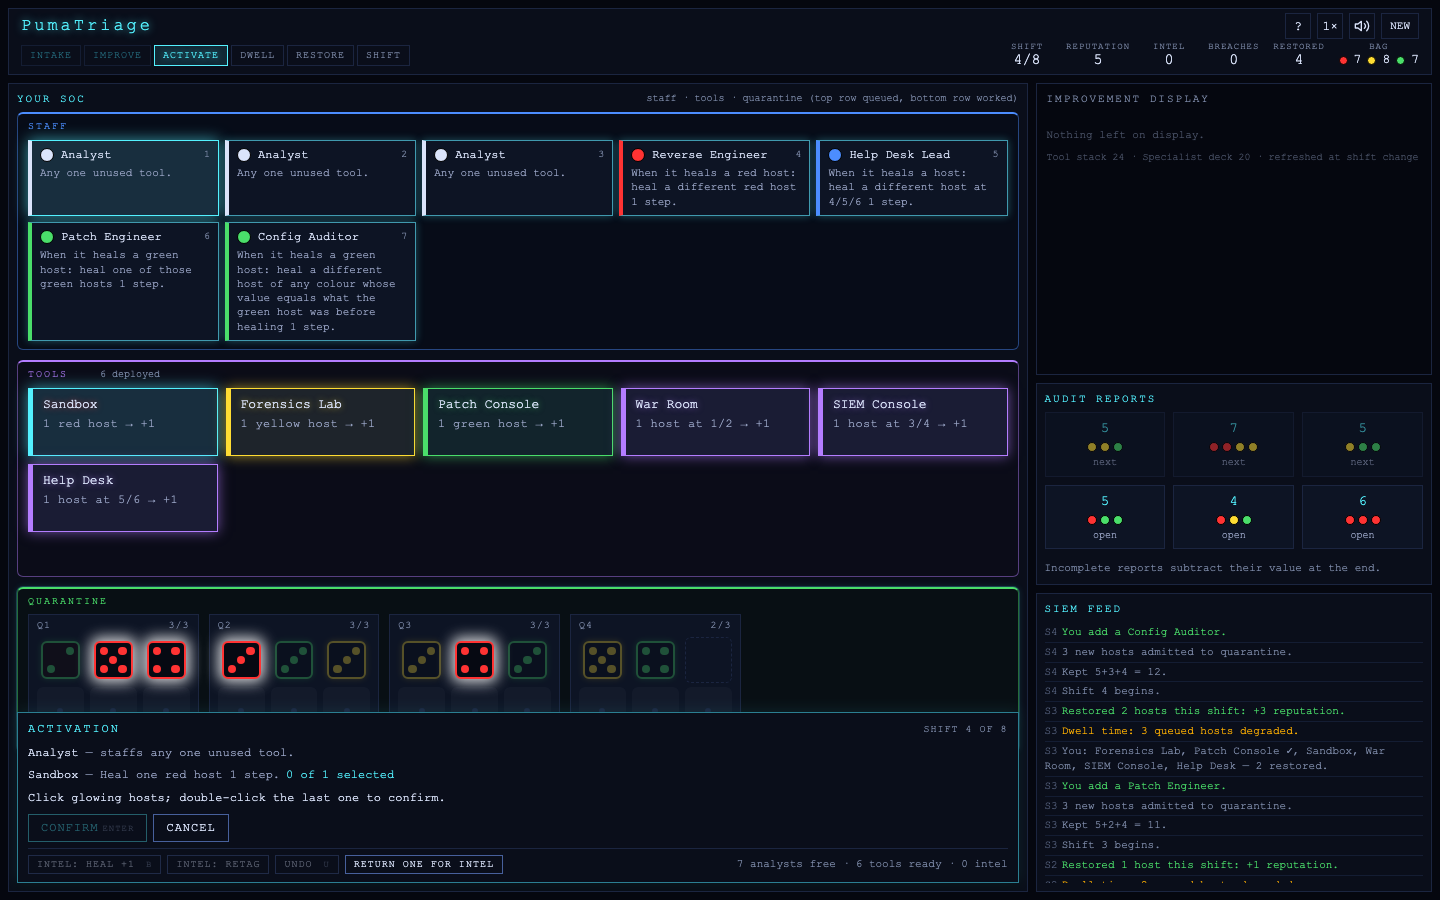
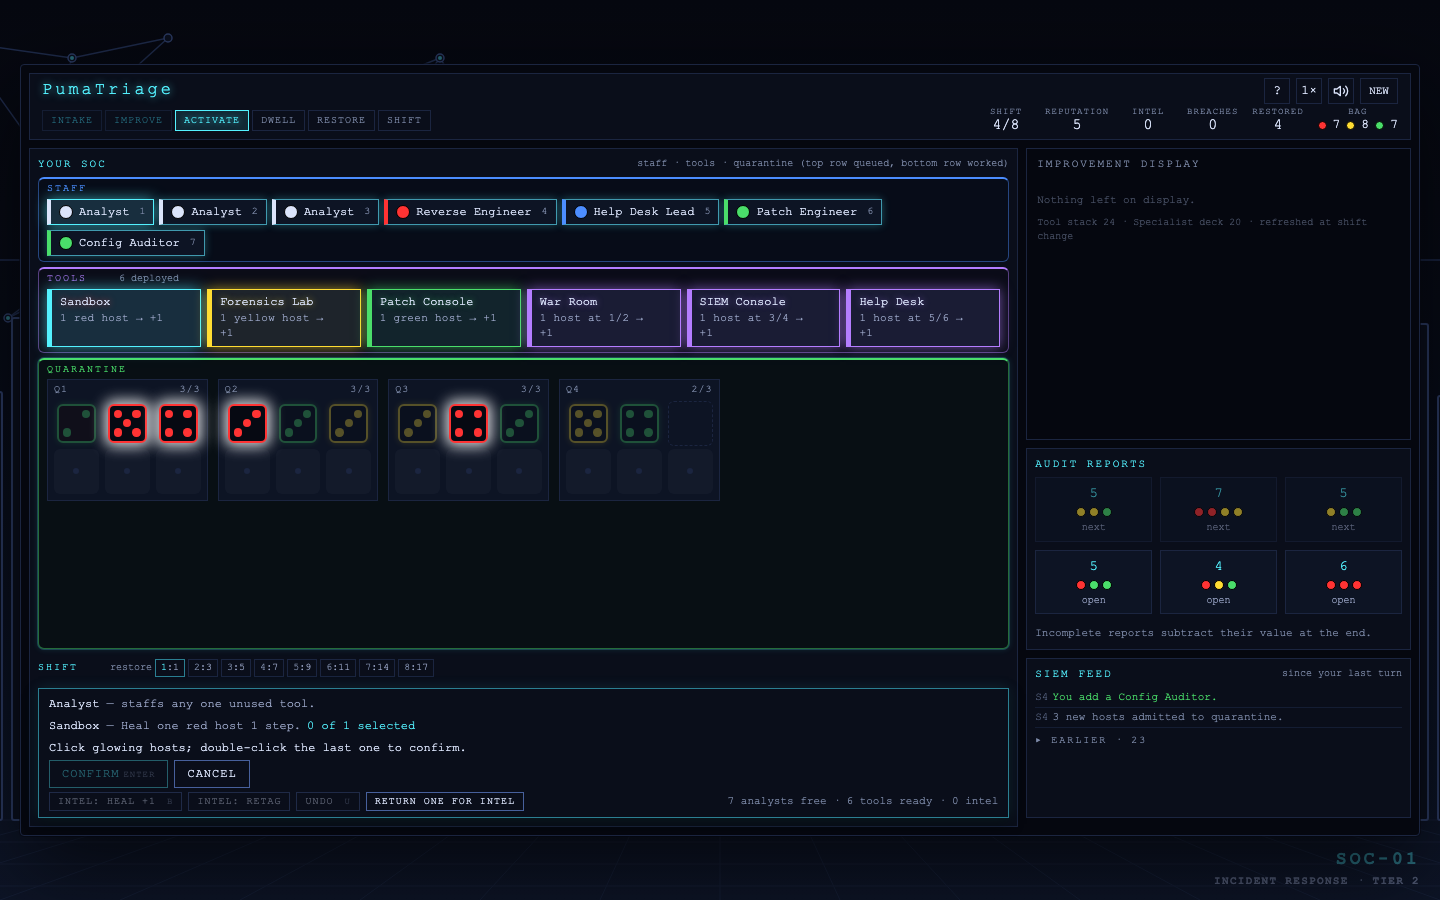
Float the board over a SOC; the SIEM feed folds to your last turn
The game now floats in the middle of the window over a line-drawn
operations room, after PumaCity's terminal over its district, and the
SIEM feed shows only what happened since your last turn.

- SIEM feed: what happened since your last turn ended (the rivals'
  moves, dwell and restoration) plus whatever you are doing now. A turn
  is a stretch where the game waits on you; two prompts in a row with
  nothing logged between them count as one. Everything older sits under
  a collapsed "Earlier · N" fold. Log entries are now records with their
  shift and colour, which also fixes the resumed feed losing both; saves
  from before this resume with their plain-string log converted.
- Layout: the board column sets the height. The action strip sits on its
  floor and the feed fills the side column down to the same line; when
  the side column is the taller one, the quarantine mat takes up the
  difference. The board holds the tallest it has been this game at this
  window size, so it never shrinks back. Phones keep the full-width
  layout with no scene.
- The strip starts as tall as a working activation turn: three lines of
  text, the confirm/cancel row and the intel/undo row (171px; 130px
  compact).
- The compact layout now applies up to 960px tall instead of 840px, so a
  1440x900 or 1280x800 window fits the floating panel without scrolling.
- Scene: racks with status lights in the side margins, a network map
[…]

Changed region(s): [[0.0, 0.0, 1.0, 0.9956], [0.8438, 0.4667, 0.875, 0.5289], [0.5, 0.7156, 0.5312, 0.7467]]

diff --git a/index.html b/index.html
@@ -61,6 +61,8 @@
   --ease-out-quart: cubic-bezier(0.25, 1, 0.5, 1);
   --ease-out-expo: cubic-bezier(0.16, 1, 0.3, 1);
   --die: clamp(36px, 2.7vw, 46px);
+  --term: 1480px;
+  --frame: clamp(8px, min(2vw, (100dvh - 860px) / 2), 28px);
 }
 
 * { box-sizing: border-box; }
@@ -74,11 +76,30 @@
 *::-webkit-scrollbar-thumb:hover { background: var(--lit); }
 *::-webkit-scrollbar-corner { background: var(--bg); }
 html, body {
-  margin: 0; padding: 0; height: 100%;
+  margin: 0; padding: 0;
   background: var(--bg); color: var(--text);
   font-family: var(--font-mono); font-size: 13px; line-height: 1.35;
 }
-body { overflow: hidden; }
+/* The game floats in the middle of the window over a line-drawn SOC (after
+   PumaCity's terminal over its district). margin:auto on #app centres it both
+   ways and, unlike align-items, never pushes its top out of reach when the
+   window is shorter than the game. */
+body { min-height: 100dvh; display: flex; padding: var(--frame); box-sizing: border-box; }
+#scene {
+  position: fixed; inset: 0; z-index: 0; pointer-events: none; overflow: hidden;
+  background: linear-gradient(#05070f 0%, #070b17 45%, #0a1122 78%, #0d1426 100%);
+}
+#scene svg { display: block; width: 100%; height: 100%; }
+#scene .sf { fill: #0a0f1d; stroke: #2a3960; stroke-width: 2; stroke-linejoin: round; }
+#scene .sl { fill: none; stroke: #1d2948; stroke-width: 1.5; stroke-linecap: round; stroke-linejoin: round; }
+#scene .sfl { fill: none; stroke: #141d33; stroke-width: 1; }
+#scene .su { fill: #0d1424; }
+#scene .sn { fill: #0a0f1d; stroke: #2a3960; stroke-width: 1.5; }
+#scene .la { fill: #54f2ff; opacity: .45; } #scene .lg { fill: #4ade6a; opacity: .4; } #scene .lw { fill: #ffb000; opacity: .5; }
+#scene .na { fill: #54f2ff; opacity: .4; }
+#scene .ring { fill: none; stroke: #ffb000; stroke-width: 1.5; }
+#scene .stx { font: 600 18px var(--font-mono); letter-spacing: .18em; fill: #54f2ff; opacity: .4; }
+#scene .stx.sm { font-size: 11px; letter-spacing: .12em; fill: #8b96b8; opacity: .5; }
 button { font-family: var(--font-mono); }
 a { color: var(--accent); }
 
@@ -86,13 +107,23 @@ a { color: var(--accent); }
    LAYOUT
    ============================================================ */
 #app {
-  height: 100vh; display: grid; gap: 8px; padding: 8px;
+  position: relative; z-index: 1; margin: auto; width: min(var(--term), 100%);
+  display: grid; gap: 8px; padding: 8px;
   grid-template-columns: minmax(640px, 1.8fr) minmax(280px, 0.7fr);
-  grid-template-rows: auto minmax(0, 1fr);
+  grid-template-rows: auto auto;
   grid-template-areas: "hud hud" "board side";
+  background: var(--bg); border: 1px solid var(--border); border-radius: 4px;
+  box-shadow: 0 0 0 1px rgba(5,7,15,0.6), 0 30px 90px rgba(0,0,0,0.65);
 }
 #hud-top { grid-area: hud; }
-#board   { grid-area: board; overflow: auto; }
+/* The board sets the game's height. The strip sits on the column's floor, so
+   its bottom edge and the bottom of the SIEM feed beside it are one line. */
+#board   { grid-area: board; display: flex; flex-direction: column; }
+#board > #strip { margin-top: auto; }
+#board > :has(+ #strip) { margin-bottom: 12px; }
+/* When the side column is the taller one, the quarantine mat takes up the
+   difference rather than leaving a hole above the strip. */
+#board > .grp-wards { flex-grow: 1; }
 /* The shared table keeps one fixed height across phases so the board below
    never shifts; anything taller scrolls inside it. */
 #table   { border: 1px solid var(--accent-dim); background: rgba(84,242,255,0.03); padding: 8px 10px 10px; margin-bottom: 12px; height: var(--table-h, 212px); overflow: auto; }
@@ -595,17 +626,30 @@ a { color: var(--accent); }
 .rival-card.cmd .rn::after { content: "CMD"; font-size: 8px; color: var(--accent); border: 1px solid var(--accent); padding: 0 3px; margin-left: 4px; }
 .rival-card.turn { border-color: var(--accent); }
 
-#siem { flex: 1; min-height: 120px; display: flex; flex-direction: column; }
-#log-list { list-style: none; margin: 0; padding: 0; overflow-y: auto; flex: 1; font-size: 11px; }
-#log-list li { padding: 2px 0; border-bottom: 1px solid var(--line); animation: log-enter .3s var(--ease-out-quart); word-break: break-word; }
+/* The feed fills the side column down to the bottom of the action strip and
+   never sets its height: size containment keeps a long log from stretching
+   the row, so the board column decides how tall the game is. */
+#siem { flex: 1 1 0; min-height: 160px; contain: size; display: flex; flex-direction: column; margin-bottom: 9px; } /* the board panel's padding + border under the strip */
+#siem .log-scroll { flex: 1; min-height: 0; overflow-y: auto; }
+#siem ul { list-style: none; margin: 0; padding: 0; font-size: 11px; }
+#siem li { padding: 2px 0; border-bottom: 1px solid var(--line); animation: log-enter .3s var(--ease-out-quart); word-break: break-word; }
 @keyframes log-enter { 0% { opacity: 0; transform: translateX(-6px); } 100% { opacity: 1; transform: none; } }
-#log-list li.warn { color: var(--warn); } #log-list li.bad { color: var(--red); } #log-list li.good { color: var(--green); } #log-list li.sys { color: var(--text-dim); }
-#log-list li .ts { color: #56627f; margin-right: 4px; }
+#siem li.warn { color: var(--warn); } #siem li.bad { color: var(--red); } #siem li.good { color: var(--green); } #siem li.sys { color: var(--text-dim); }
+#siem li .ts { color: #56627f; margin-right: 4px; }
+#log-older summary { cursor: pointer; color: var(--text-dim); font-size: 10px; letter-spacing: 2px; text-transform: uppercase; padding: 6px 0 3px; list-style: none; }
+#log-older summary::before { content: "▸ "; } #log-older[open] summary::before { content: "▾ "; }
+#log-older summary::-webkit-details-marker { display: none; }
+#log-older summary:hover { color: var(--white); }
+#log-older ul { opacity: 0.75; }
 
 /* ============================================================
    ACTIONS bar + buttons
    ============================================================ */
+/* From the first prompt the strip is as tall as a working activation turn:
+   three lines of text (analyst, tool, prompt), the confirm/cancel row and the
+   intel/undo row, so the game is already at that size when the turn comes. */
 #strip {
+  min-height: 171px;
   position: sticky; bottom: 0; z-index: 5; margin: 12px 0 0;
   background: var(--panel); border: 1px solid var(--accent-dim); padding: 8px 10px;
   box-shadow: 0 0 14px rgba(84,242,255,0.12), 0 6px 12px rgba(0,0,0,0.6);
@@ -722,7 +766,7 @@ details.addons summary::-webkit-details-marker { display: none; }
 /* Short viewports (laptops): fitting the board beats reserving room for
    growth, so nothing here holds space, and the three rows above the strip
    pack down so the quarantine segments stay on screen without scrolling. */
-@media (max-height: 840px) {
+@media (max-height: 960px) {
   #staff, #depts { min-height: 0; }
   .grp { padding: 3px 8px 5px; margin-bottom: 5px; }
   .grp > .board-row { margin-bottom: 3px; }
@@ -750,7 +794,8 @@ details.addons summary::-webkit-details-marker { display: none; }
   /* The strip drops its head (the HUD already shows the phase and the
      shift) and packs the prompt, the buttons and the intel/undo row into
      two lines. */
-  #strip { margin-top: 6px; padding: 6px 10px; display: flex; flex-wrap: wrap; align-items: center; gap: 4px 10px; }
+  #board > :has(+ #strip) { margin-bottom: 6px; }
+  #strip { min-height: 130px; margin-top: 6px; padding: 6px 10px; display: flex; flex-wrap: wrap; align-items: center; gap: 4px 10px; }
   .strip-head { display: none; }
   .strip-rule { flex: 1 1 100%; padding: 1px 0; }
   #phase-instructions { flex: 1 1 100%; min-height: 0; margin: 0; }
@@ -758,13 +803,15 @@ details.addons summary::-webkit-details-marker { display: none; }
   .strip-tools { flex: 1 1 auto; margin: 0; padding: 0; border-top: 0; }
 }
 @media (max-width: 960px) {
-  :root { --die: clamp(36px, 9vw, 48px); }
-  body { overflow: auto; }
+  :root { --die: clamp(36px, 9vw, 48px); --frame: 0px; }
+  body { display: block; }
+  #scene { display: none; }
   #app {
-    height: auto; grid-template-columns: 1fr; grid-template-rows: auto;
+    width: auto; border: 0; border-radius: 0; box-shadow: none;
+    grid-template-columns: 1fr; grid-template-rows: auto;
     grid-template-areas: "hud" "board" "side";
   }
-  #board { overflow: visible; }
+  #siem { min-height: 240px; }
   #table { height: auto; overflow: visible; }
   #table.idle { display: none; }
   #staff, #depts { min-height: 0; }
@@ -777,6 +824,7 @@ details.addons summary::-webkit-details-marker { display: none; }
 </style>
 </head>
 <body>
+<div id="scene" aria-hidden="true"></div>
 <div id="app">
   <header id="hud-top">
     <div class="brand">
@@ -796,7 +844,7 @@ details.addons summary::-webkit-details-marker { display: none; }
   <aside id="side">
     <div id="side-table"></div>
     <div id="rivals-panel" class="panel"><h3>Rival SOCs</h3><div id="rivals"></div></div>
-    <div id="siem" class="panel"><h3>SIEM Feed</h3><ul id="log-list" aria-label="Event log"></ul></div>
+    <div id="siem" class="panel"><h3>SIEM Feed<span class="h3-note">since your last turn</span></h3><div class="log-scroll"><ul id="log-list" aria-label="Events since your last turn"></ul><details id="log-older" hidden><summary>Earlier · <span class="n">0</span></summary><ul aria-label="Earlier events"></ul></details></div></div>
   </aside>
 </div>
 <div id="phase-toast" aria-hidden="true"></div>
@@ -1221,7 +1269,7 @@ const WAIT = "wait", ANIM = "anim", NEXT = "next";
 
 const UI = {
   sel: {}, legalTargets: new Set(), legalByDept: {}, undo: [], undoBarrier: 0,
-  eventQueue: [], queueTimer: null, animating: false, headless: false, simulating: false,
+  eventQueue: [], queueTimer: null, boardMax: 0, boardFor: null, boardKey: "", animating: false, headless: false, simulating: false,
   flipRects: new Map(), cardH: new Map(), prevHUD: {}, prevPhase: null, muted: false,
   reducedMotion: window.matchMedia && window.matchMedia("(prefers-reduced-motion: reduce)").matches,
   newGameConfirmTimer: null, phaseToastTimer: null, autoHuman: false, tutorialStep: -1,
@@ -1335,7 +1383,7 @@ function newGame(seed) {
     ambulances: [], deptStack: [], deptDisplay: [], specStack: [], specDisplay: [], adminDeck: [],
     matDeptStack: [], matSpecStack: [], supply: { mother: cfg.maternity ? MAT.mothers : 0, infant: cfg.maternity ? MAT.infants : 0 },
     extraChoice: null, solo: null, events: null, currentEvent: null,
-    roundStats: {}, log: [], gameOver: false, final: null, overflow: null, collections: null,
+    roundStats: {}, log: [], logSeq: 0, logFold: 0, turnEnd: 0, waiting: false, gameOver: false, final: null, overflow: null, collections: null,
     city: null, cityPer: CITY.collect,
     investPiles: null, investBoard: null, invest: null,
     overtime: 0, // Overtime: extra eight-shift blocks played on from the closing board
@@ -1540,6 +1588,11 @@ function loadGame() {
   resetRuntime();
   G = saved;
   houseRules = { ...G.houseRules };
+  // Saves from before the feed kept records hold bare strings.
+  if (G.logSeq == null) {
+    G.log = G.log.map((m, i) => typeof m === "string" ? { n: i, r: null, m, l: logLevel(m) } : m);
+    Object.assign(G, { logSeq: G.log.length, logFold: 0, turnEnd: 0, waiting: false });
+  }
   return true;
 }
 function clearSave() { try { localStorage.removeItem(SAVE_KEY); } catch (e) {} }
@@ -2006,9 +2059,13 @@ function advance() {
       if (++guard > 2000) { console.error("Phase machine runaway at", G.phase, G.step); break; }
       const fn = STEP[G.phase] && STEP[G.phase][G.step];
       if (!fn) { console.error("Unknown step", G.phase, G.step); break; }
+      // Coming back from a wait on you is the end of your turn, whatever
+      // the step does next; if it only waits again, nothing was logged.
+      turnEnds();
       const r = fn();
       if (r === WAIT) {
         if (UI.autoHuman && !G.gameOver) { botAnswerWait(); continue; }
+        turnBegins();
         break;
       }
       if (r === ANIM) { UI.advancing = false; return; }
@@ -3636,7 +3693,7 @@ function setupInput() {
   let resizeTimer = null;
   window.addEventListener("resize", () => {
     clearTimeout(resizeTimer);
-    resizeTimer = setTimeout(() => { if (G && !UI.headless && UI.wideTable !== window.matchMedia(WIDE_TABLE_MQ).matches) updateAll(); }, 150);
+    resizeTimer = setTimeout(() => { if (G && !UI.headless && UI.wideTable !== window.matchMedia(WIDE_TABLE_MQ).matches) updateAll(); else holdBoard(); }, 150);
   });
   document.getElementById("app").addEventListener("click", e => {
     const el = e.target.closest("[data-act]");
@@ -4251,35 +4308,71 @@ function logLevel(msg) {
   if (/degrad|event|full|no improvements/i.test(msg)) return "warn";
   return "";
 }
+// Each entry keeps its number, shift and colour, so the feed can be rebuilt
+// exactly (on resume, and whenever a turn folds the older lines away).
 function log(msg, level) {
   if (!G) return;
-  G.log.push(msg);
+  const e = { n: G.logSeq++, r: G.round, m: msg, l: level || logLevel(msg) };
+  G.log.push(e);
   if (G.log.length > 200) G.log.shift();
   if (UI.headless) return;
   const list = document.getElementById("log-list");
   if (!list) return;
-  const li = document.createElement("li");
-  li.textContent = msg;
-  const cls = level || logLevel(msg);
-  if (cls) li.className = cls;
-  const ts = document.createElement("span"); ts.className = "ts"; ts.textContent = `S${G.round}`;
-  li.prepend(ts);
-  list.prepend(li);
+  list.prepend(logItem(e));
   while (list.children.length > 60) list.removeChild(list.lastChild);
   const ann = document.getElementById("announcements");
   if (ann) ann.textContent = msg;
 }
+function logItem(e) {
+  const li = document.createElement("li");
+  li.textContent = e.m;
+  if (e.l) li.className = e.l;
+  if (e.r != null) { const ts = document.createElement("span"); ts.className = "ts"; ts.textContent = `S${e.r}`; li.prepend(ts); }
+  return li;
+}
+/* The feed shows what happened since your last turn ended: the rivals'
+   moves, dwell and restoration, and whatever you are doing now. Everything
+   older sits under the fold. A turn is a stretch where the game waits on
+   you; two prompts in a row with nothing logged between them are one turn. */
+function turnBegins() {
+  if (G.logSeq > G.turnEnd && G.logFold !== G.turnEnd) { G.logFold = G.turnEnd; rebuildLog(); }
+  G.waiting = true;
+}
+function turnEnds() {
+  if (!G.waiting) return;
+  G.waiting = false;
+  G.turnEnd = G.logSeq;
+}
 function rebuildLog() {
-  const list = document.getElementById("log-list");
-  if (!list) return;
-  list.innerHTML = "";
-  G.log.slice(-60).forEach(msg => { const li = document.createElement("li"); li.className = logLevel(msg) || "sys"; li.textContent = msg; list.prepend(li); });
+  const list = document.getElementById("log-list"), older = document.getElementById("log-older");
+  if (UI.headless || !list || !older) return;
+  const recent = G.log.filter(e => e.n >= G.logFold).slice(-60), past = G.log.filter(e => e.n < G.logFold);
+  // Rebuilt lines were already seen: only new ones slide in.
+  const still = e => { const li = logItem(e); li.style.animation = "none"; return li; };
+  list.replaceChildren(...recent.reverse().map(still));
+  older.querySelector("ul").replaceChildren(...past.reverse().map(still));
+  older.querySelector(".n").textContent = past.length;
+  older.hidden = !past.length;
 }
 /* ============================================================
    RENDERING
    DOM rebuilt by string templating. updateAll() is the one entry
    point; FLIP keeps dice visually continuous across rebuilds.
    ============================================================ */
+/* The board keeps the tallest it has been this game at this window size:
+   the floating game settles at its largest, with the action strip on the
+   column's floor and the SIEM feed ending beside it, and a longer prompt or
+   a new row of tools never nudges it back down. Measured last, once the
+   strip's prompt and buttons are in. */
+function holdBoard() {
+  const board = document.getElementById("board");
+  if (!board || !document.getElementById("strip")) return;
+  const key = innerWidth + "x" + innerHeight;
+  if (UI.boardFor !== G || UI.boardKey !== key) { UI.boardFor = G; UI.boardKey = key; UI.boardMax = 0; }
+  board.style.minHeight = "";
+  UI.boardMax = Math.max(UI.boardMax, board.offsetHeight);
+  board.style.minHeight = UI.boardMax + "px";
+}
 function updateAll() {
   if (UI.headless || !G) return;
   document.getElementById("app").classList.toggle("p4", G.players.length >= 4);
@@ -4293,6 +4386,7 @@ function updateAll() {
   playTake();
   repositionGhosts();
   markAttention();
+  holdBoard();
   UI.leaving = null;
 }
 // The one section that holds your next move breathes softly: the shared
@@ -5230,7 +5324,56 @@ function endTutorial() {
 /* ============================================================
    INIT & DEBUG HOOKS
    ============================================================ */
+/* The room behind the game: one line-drawn SOC, drawn once. Composed for a
+   1600x900 box drawn "xMidYMax slice", so the racks stand in the side margins
+   (x < 200, x > 1400) and the floor in the bottom band that the floating game
+   leaves showing; the network map above shows wherever the game ends. */
+function sceneSVG() {
+  let seed = 7;
+  const rnd = n => { seed = (seed * 1103515245 + 12345) & 0x7fffffff; return seed % n; };
+  const G = 820;  // floor line
+  let o = '';
+  // The network: nodes joined to their nearest neighbours, one of them burning.
+  const nodes = [];
+  for (let i = 0; i < 34; i++) nodes.push([40 + rnd(1520), 30 + rnd(300)]);
+  const seen = new Set();
+  nodes.forEach((a, i) => {
+    nodes.map((b, j) => [j, (a[0] - b[0]) ** 2 + (a[1] - b[1]) ** 2]).filter(([j]) => j !== i)
+      .sort((x, y) => x[1] - y[1]).slice(0, 2).forEach(([j]) => {
+        const k = i < j ? i + "-" + j : j + "-" + i;
+        if (seen.has(k)) return; seen.add(k);
+        o += `<path class="sl" d="M${a[0]} ${a[1]} L${nodes[j][0]} ${nodes[j][1]}"/>`;
+      });
+  });
+  nodes.forEach(([x, y], i) => {
+    o += `<circle class="sn" cx="${x}" cy="${y}" r="4"/>`;
+    if (i % 5 === 0) o += `<circle class="na" cx="${x}" cy="${y}" r="2"/>`;
+  });
+  const [hx, hy] = nodes.reduce((m, n) => (n[0] < 200 || n[0] > 1400) && n[1] < m[1] ? n : m, [0, 999]);
+  if (hy < 999) o += `<circle class="lw" cx="${hx}" cy="${hy}" r="3"/><circle class="ring" cx="${hx}" cy="${hy}" r="12" opacity=".3"/><circle class="ring" cx="${hx}" cy="${hy}" r="24" opacity=".14"/>`;
+  // The raised floor, tiles running to a vanishing point behind the game.
+  for (let y = G; y <= 900; y += 22) o += `<path class="sfl" d="M0 ${y} H1600"/>`;
+  for (let x = -1600; x <= 3200; x += 120) o += `<path class="sfl" d="M800 ${G - 180} L${x} 900" clip-path="url(#floor)"/>`;
+  // Racks: a cabinet, its units, a few lights on, and the tray its cables climb to.
+  const rack = (x, h) => {
+    const top = G - h;
+    let r = `<rect class="sf" x="${x}" y="${top}" width="74" height="${h}" rx="2"/>`;
+    for (let y = top + 12; y < G - 14; y += 15) {
+      r += `<rect class="su" x="${x + 8}" y="${y}" width="58" height="10"/>`;
+      if (rnd(100) < 55) { const c = rnd(100); r += `<rect class="${c < 8 ? "lw" : c < 45 ? "lg" : "la"}" x="${x + 54}" y="${y + 3}" width="6" height="4"/>`; }
+    }
+    return r + `<path class="sl" d="M${x + 20} ${top} V${top - 40} M${x + 54} ${top} V${top - 40}"/>`;
+  };
+  let racks = '';
+  for (let i = 0; i < 3; i++) racks += rack(8 + i * 84, 420 + rnd(90));
+  for (let i = 0; i < 3; i++) racks += rack(1350 + i * 84, 420 + rnd(90));
+  o += `<path class="sl" d="M0 ${G - 560} H330 M1330 ${G - 560} H1600"/>` + racks;
+  o += `<text class="stx" x="1500" y="${G + 44}" text-anchor="end">SOC-01</text><text class="stx sm" x="1500" y="${G + 64}" text-anchor="end">INCIDENT RESPONSE · TIER 2</text>`;
+  return `<svg viewBox="0 0 1600 900" preserveAspectRatio="xMidYMax slice"><defs><clipPath id="floor"><rect x="0" y="${G}" width="1600" height="${900 - G}"/></clipPath></defs>${o}</svg>`;
+}
 function init() {
+  const scene = document.getElementById("scene");
+  if (scene) scene.innerHTML = sceneSVG();
   setupInput();
   try { if (localStorage.getItem("pumatriage_muted_v1") === "1") { UI.muted = true; document.getElementById("mute-btn").setAttribute("aria-pressed", "true"); } } catch (e) {}
   try { const sp = parseInt(localStorage.getItem("pumatriage_speed_v1") || "1", 10); if (sp >= 1 && sp <= 3) { UI.speed = sp; const b = document.getElementById("speed-btn"); if (b) b.textContent = SPEED_LABEL[sp]; } } catch (e) {}

diff --git a/README.md b/README.md
@@ -36,6 +36,7 @@ Each of the eight shifts runs six phases: **Intake** (three hosts are rolled per
 - **Undo** during activation (blocked past a re-roll), autosave and resume, a speed control for rival turns
 - **Overtime** — at the shift 8 scorecard, play on from the same board for another eight shifts; only the shift counter resets, and the next scorecard counts everything since the start
 - **The board is the table** — dice scale with the window, and one strip under the quarantine segments carries the current rule, the prompt and the buttons; a phase strip and the restoration ladder keep the round structure and scoring brackets in view; on laptop-height screens the staff row packs into chips and the strip loses its header so the quarantine segments stay on screen
+- **A SOC around the game** — the board floats in the middle of the window over a line-drawn operations room; the SIEM feed shows what happened since your last turn, with everything earlier under a fold, and ends level with the bottom of the action strip
 - **Tactical look** — the cyan-on-navy palette PumaRally and PumaTycoon share, monospace terminal type; FLIP-animated dice
 - **Sound effects** — Web Audio API procedurally generated retro sounds (mutable)
 - **Tutorial** — 7-step introduction on first play
